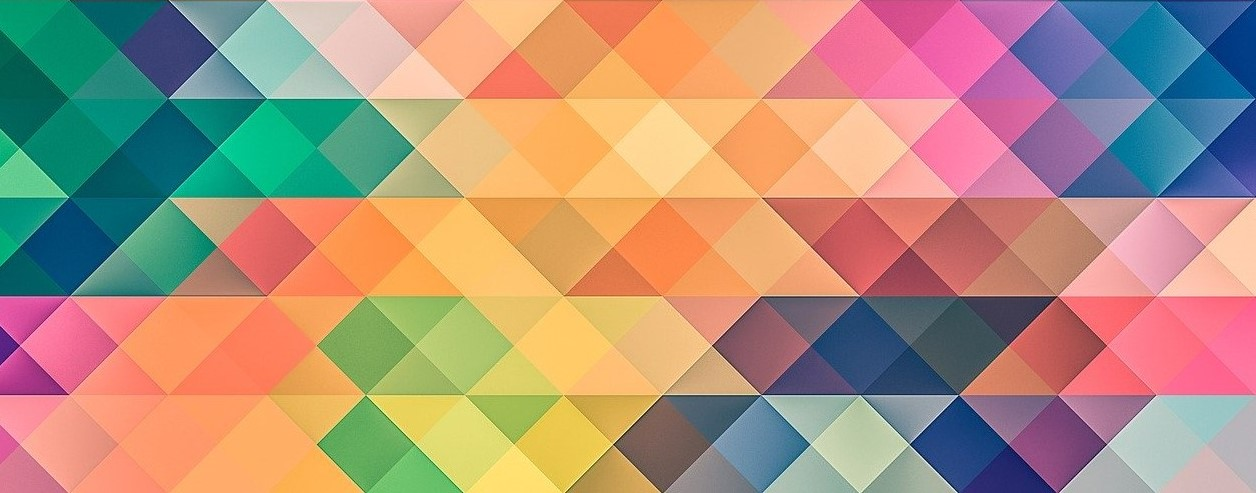
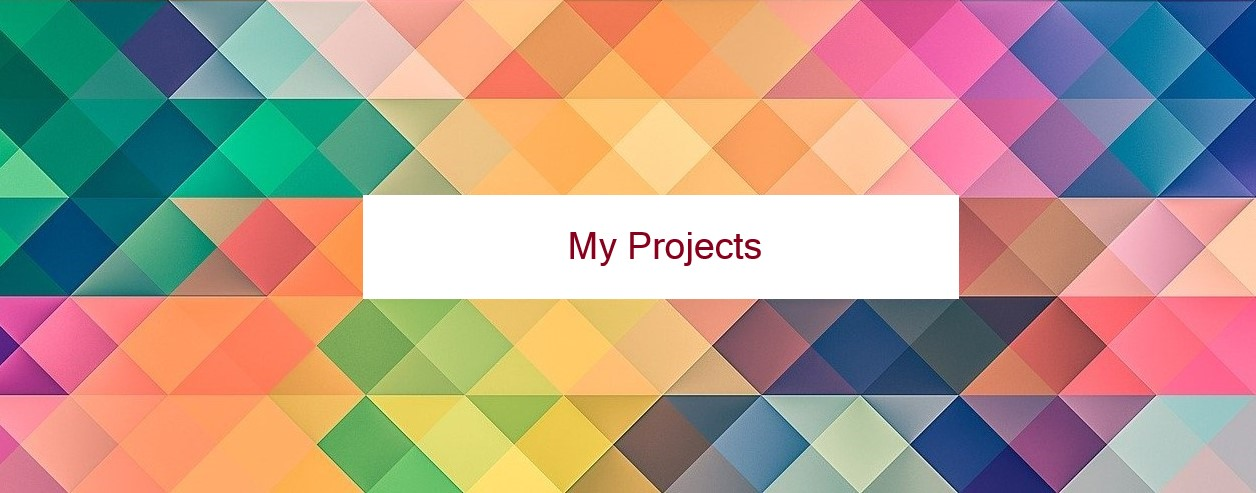
Added blank projects section

Changed region(s): [[0.2795, 0.3955, 0.7763, 0.6085]]

diff --git a/index.html b/index.html
@@ -21,7 +21,6 @@
 
     <section id="banner">
         <img src="Resources\Images\banner.jpg" alt="geometric, colorful background">
-        <h1>My Projects</h1>
     </section>
 
     <section id="about">
@@ -31,6 +30,15 @@
             achievements with you, so please feel free to explore this site and take a look at some of the 
             projects that I have been working on. 
         </p>
+    </section>
+
+    <section id="projects">
+        <h2>Projects</h2>
+        <div class="projects-container">
+            <div class="card">
+
+            </div>
+        </div>
     </section>
     
 </body>

diff --git a/Resources/CSS/index.css b/Resources/CSS/index.css
@@ -29,23 +29,27 @@ li a {
 
 #banner {
     padding: 30px 30px;
+    margin: 0px 30px;
+    background-color: white;
 }
 
 #banner img {
     width: 100%;
 }
 
-#banner h1 {
+#about {
+    margin: 0px 30px;
+    padding: 20px 20px;
     background-color: white;
-    padding: 30px;
-    text-align: center;
-    position: absolute;
-    top: 35%;
-    left: 22%;
-    width: 50%;
 }
 
-#about {
-    padding: 0px 30px;
+h2, h3, h4 {
+    color: #990000;
+    text-align: center;
+}
+
+#projects {
+    margin: 0px 30px;
+    padding: 20px 20px;
     background-color: white;
 }
